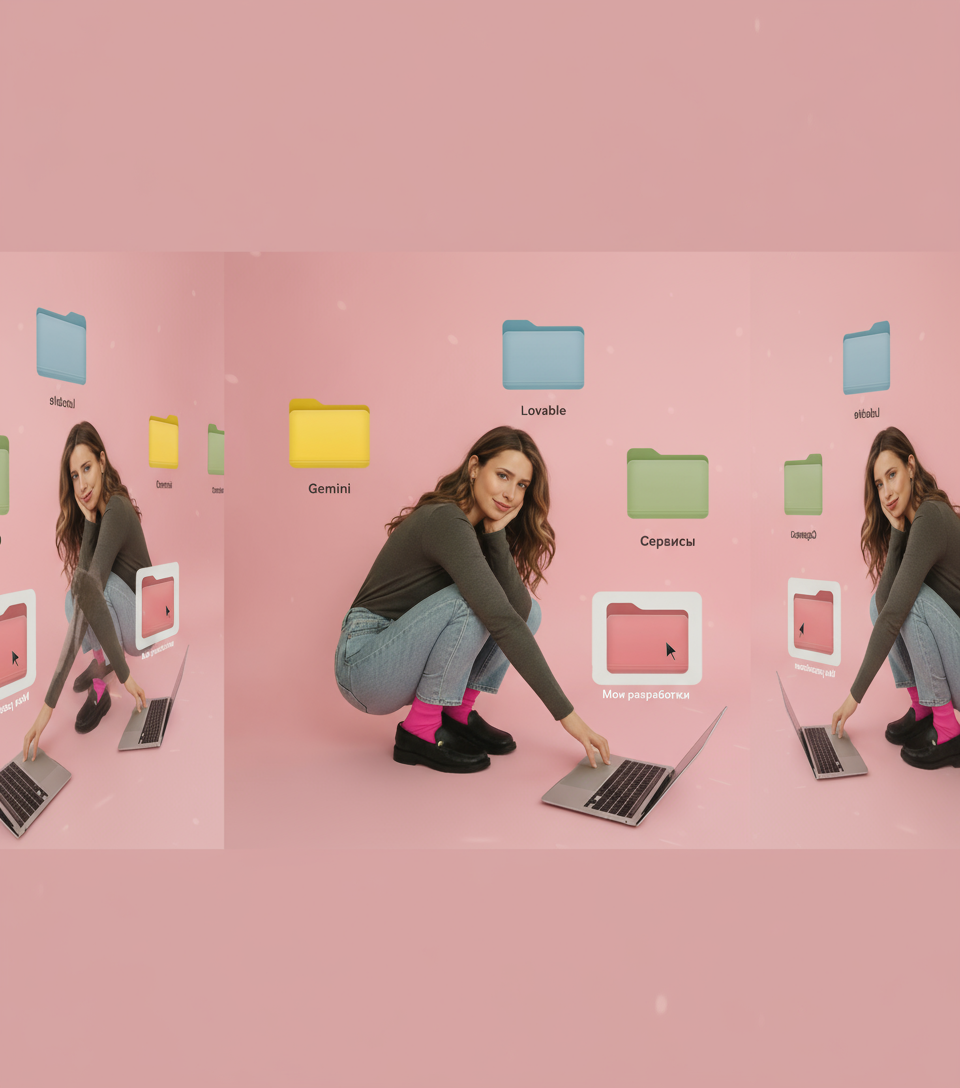
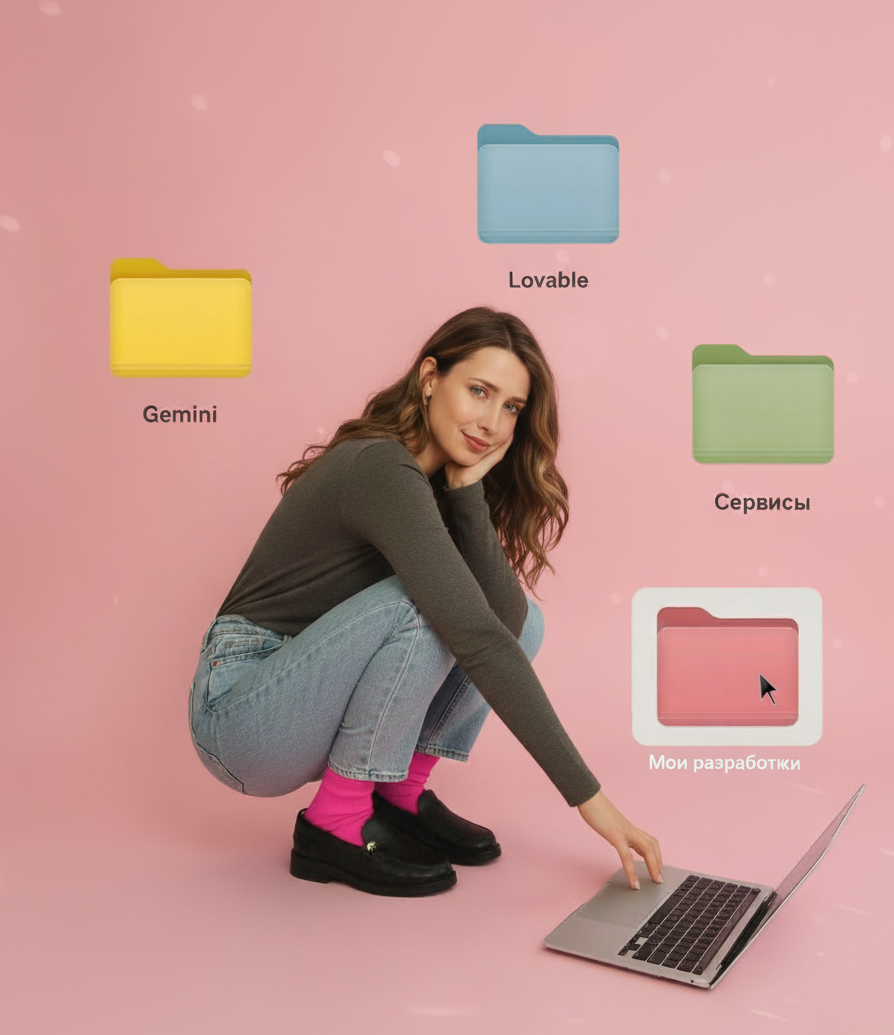
Replace hero image

diff --git a/src/pages/Index.tsx b/src/pages/Index.tsx
@@ -45,11 +45,11 @@ const Index = () => {
           </header>
 
           {/* Hero Image */}
-          <div className="mb-12 sm:mb-16">
+          <div className="mb-12 sm:mb-16 flex justify-center">
             <img
               src={heroImage}
               alt="Современное рабочее пространство разработчика"
-              className="w-full rounded-2xl shadow-lg"
+              className="max-w-full rounded-2xl shadow-lg"
             />
           </div>
 
